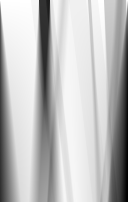
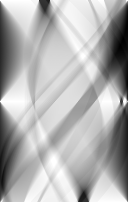
Continued debugging. Fixed steep positive lines, but there's still an error for all steep lines

diff --git a/tomo_lib.py b/tomo_lib.py
@@ -8,9 +8,9 @@ import scipy.misc
 def get_angles(size, degrees=True):
     num_angles = math.ceil(size*math.pi/2)
     if degrees:
-        return np.linspace(0, 22.5, num_angles, False)
+        return np.linspace(0, 180, num_angles, False)
     else:
-        return np.linspace(0,np.pi/8, num_angles,False)
+        return np.linspace(0, np.pi, num_angles,False)
 
 def sinogram(image, theta):
     sinogram = np.zeros((len(theta), max(image.shape)))
@@ -20,7 +20,8 @@ def sinogram(image, theta):
     return sinogram
 
 def get_rays(size):
-    startvalue = (size-1)/2.0
+    numrays = np.sqrt(2*(size**2))
+    startvalue = (numrays-1)/2.0
     return np.linspace((-(1.0)*startvalue), startvalue, size).astype(np.float32)
 
 def savesinogram(filename, data, numrays, numangles):
